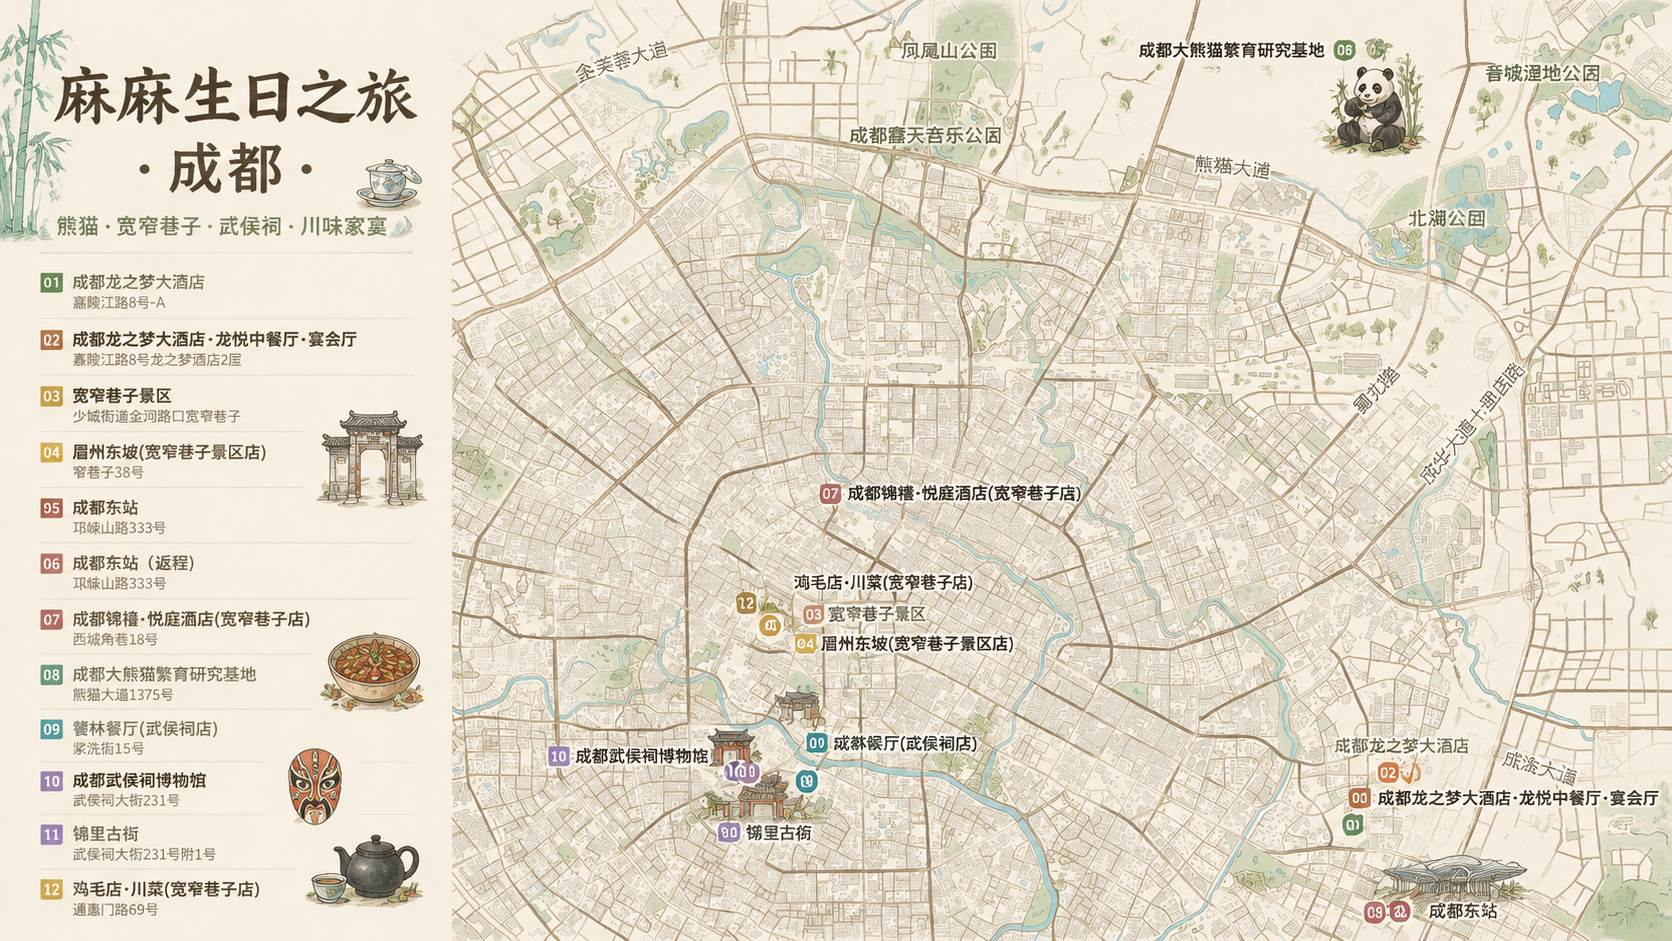
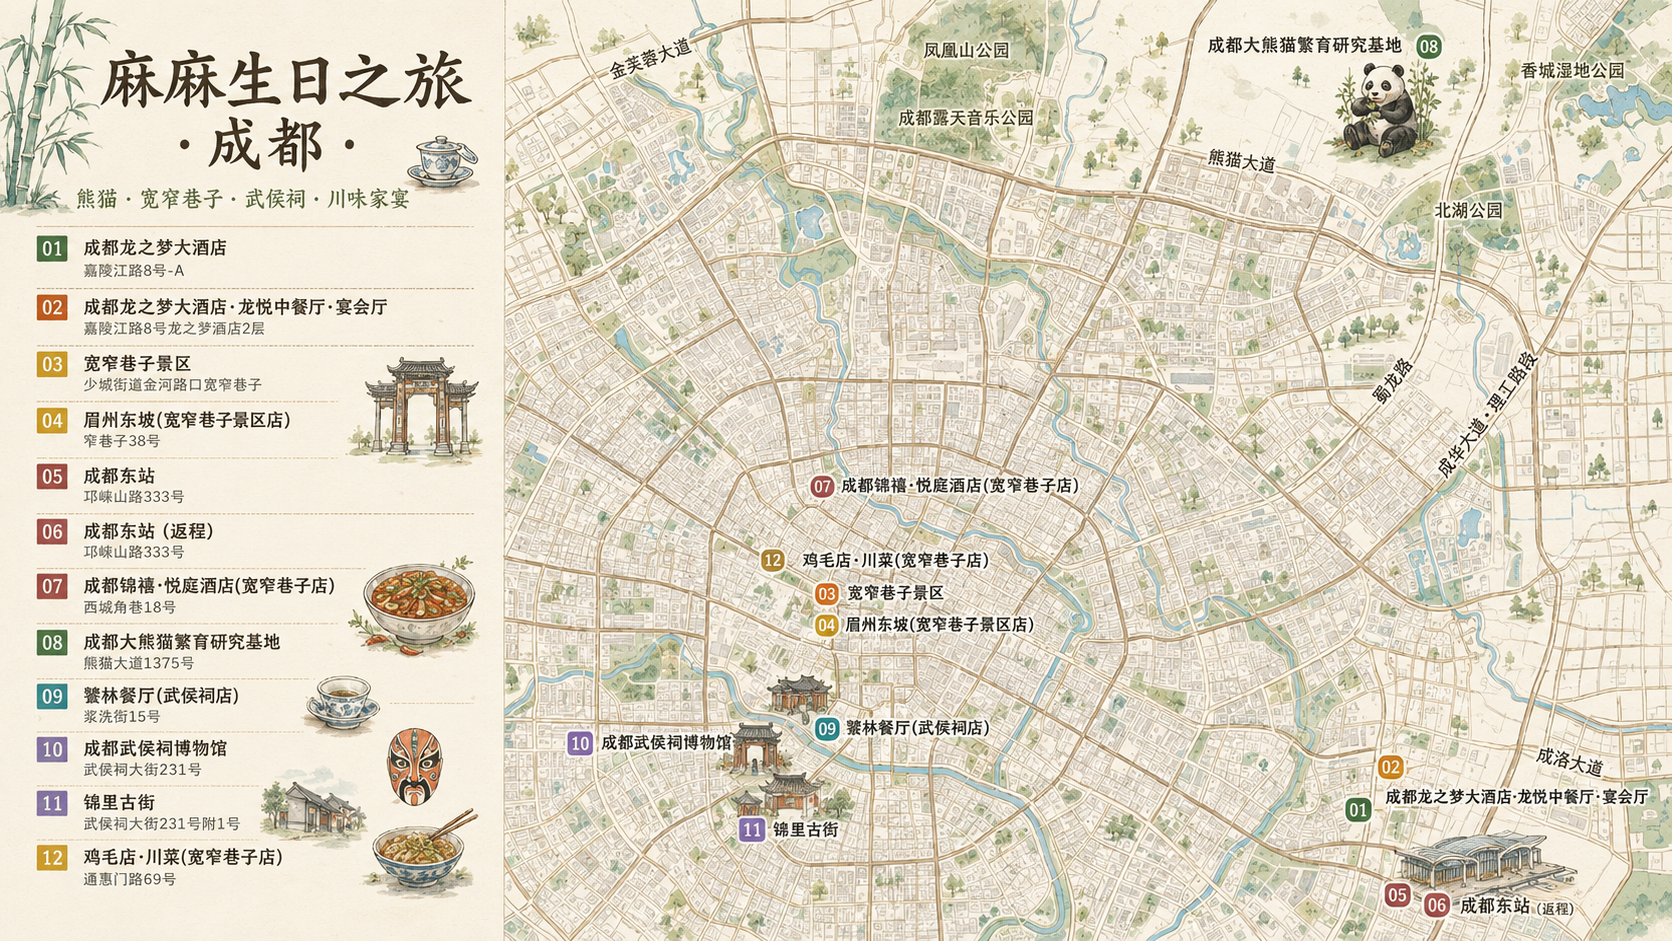
chore: 生成stitch设计文档。替换导览图demo

diff --git a/.stitch/DESIGN.md b/.stitch/DESIGN.md
@@ -1,0 +1,229 @@
+---
+name: 行迹
+colors:
+  background: '#FFF4E6'
+  surface: '#FFFFFF'
+  surface-2: '#FFF9F1'
+  on-surface: '#2B1A10'
+  on-surface-variant: '#5A4338'
+  outline: 'rgba(43, 26, 16, 0.08)'
+  primary: '#FF7A2E'
+  primary-container: '#FFEBD6'
+  secondary: '#6B46C1'
+  tertiary: '#4FB286'
+  warning: '#FFC247'
+  error: '#FF5B5B'
+  magazine-background: '#F4F0E8'
+  magazine-primary: '#D62E2E'
+  postcard-background: '#EFE6D5'
+  postcard-primary: '#C13D2F'
+  minimal-background: '#FAFAF8'
+  minimal-primary: '#2B1A10'
+typography:
+  display:
+    fontFamily: Noto Serif SC, Songti SC, STSong, serif
+    fontSize: 52rpx
+    fontWeight: '800'
+    lineHeight: '1.15'
+    letterSpacing: 2rpx
+  title:
+    fontFamily: var(--font-display)
+    fontSize: 32rpx
+    fontWeight: '700'
+    lineHeight: '1.35'
+    letterSpacing: 1rpx
+  body:
+    fontFamily: PingFang SC, Noto Sans SC, Source Han Sans SC, -apple-system, sans-serif
+    fontSize: 26rpx
+    fontWeight: '400'
+    lineHeight: '1.5'
+    letterSpacing: '0'
+  label:
+    fontFamily: var(--font-mono)
+    fontSize: 22rpx
+    fontWeight: '600'
+    lineHeight: '1'
+    letterSpacing: 1rpx
+rounded:
+  xs: 12rpx
+  sm: 16rpx
+  md: 22rpx
+  lg: 32rpx
+  xl: 44rpx
+  pill: 999rpx
+spacing:
+  page-x: 32rpx
+  section-gap: 24rpx
+  card-padding: 24rpx
+  sheet-padding: 32rpx
+  touch-min: 80rpx
+---
+
+# 1. Design System: 行迹
+
+## 1.1. Visual Theme & Atmosphere
+
+行迹是一个以旅行规划为核心的小程序界面，整体视觉语言建立在浅色纸感、轻量卡片、主题化变量和明确的触摸反馈之上。源码中的 `src/styles/tokens.scss` 定义了四套主题：手帖 `tegami`、刊物 `magazine`、护照 `postcard`、极简 `minimal`；每套主题共享相同语义变量，如 `--bg`、`--surface`、`--ink`、`--accent`、`--r-*`、`--shadow-*`，由 `theme-tokens theme-{name}` 根类切换。
+
+默认手帖主题偏暖橘，页面背景带浅奶油色和局部径向光感，卡片圆角较大，阴影柔和，适合表达“轻松做攻略”的产品气质。其他主题不是换色皮肤，而是各自调整形状和排版语气：刊物主题更方、更硬、更像编辑目录；护照主题使用签证页、虚线、编号、水印等旅行证件意象；极简主题保留留白、低阴影和克制分隔线。
+
+首页方向保持“少装饰、先创建、再发现、再个人行程”的结构。推荐内容以 `旅人精选` 呈现，和 `我的行程` 明确分层，不做底部常驻广告式信息流。模板库和阅读页强调只读感、搜索与天数筛选，视觉上复用现有主题 token，不依赖 emoji 装饰。
+
+## 2. Color Palette & Roles
+
+### 2.1. Primary Foundation
+
+| 角色 | Token | 默认值 | 用途 |
+|:---|:---|:---|:---|
+| 页面背景 | `--bg` | `#FFF4E6` | 页面根底色、原生窗口回弹背景 |
+| 深层背景 | `--bg-deep` | `#F4E6CE` | 深一点的纸面或分隔背景 |
+| 柔背景 | `--bg-soft` | `#FFE9D1` | 弹层分组、取消区块、浅底强调 |
+| 主表面 | `--surface` | `#FFFFFF` | 卡片、弹层、搜索框、分段控件 |
+| 次表面 | `--surface-2` | `#FFF9F1` | 结果按压态、标签背景、次级容器 |
+| 线条 | `--line` | `rgba(43, 26, 16, 0.08)` | 细分割线、输入边框 |
+| 强线条 | `--line-2` | `rgba(43, 26, 16, 0.14)` | 弹层拖拽柄、虚线边框、较明显分隔 |
+
+四主题基础色如下：
+
+| 主题 | 背景 | 表面 | 主文字 | 主强调 |
+|:---|:---|:---|:---|:---|
+| 手帖 `tegami` | `#FFF4E6` | `#FFFFFF` | `#2B1A10` | `#FF7A2E` |
+| 刊物 `magazine` | `#F4F0E8` | `#FFFFFF` | `#111111` | `#D62E2E` |
+| 护照 `postcard` | `#EFE6D5` | `#FFFCF3` | `#2B1F0E` | `#C13D2F` |
+| 极简 `minimal` | `#FAFAF8` | `#FFFFFF` | `#0F0F0E` | `#2B1A10` |
+
+### 2.2. Accent & Interactive
+
+| 角色 | Token | 默认值 | 用途 |
+|:---|:---|:---|:---|
+| 主强调 | `--accent` | `#FF7A2E` | CTA、选中 tab、可编辑入口、搜索手动添加 |
+| 第二强调 | `--accent-2` | `#FF9A4D` | 渐变终点、活跃按钮过渡 |
+| 强调浅色 | `--accent-soft` | `#FFD3A8` | 虚线边框、柔和光晕 |
+| 强调背景 | `--accent-bg` | `#FFEBD6` | 二级按钮、按压态、输入背景 |
+| AI / 特殊强调 | `--plum` | `#6B46C1` | AI 创建 tile、AI 状态光效 |
+| 成功/自然 | `--leaf` | `#4FB286` | 绿色状态、自然主题色 |
+| 阳光/提醒 | `--sun` | `#FFC247` | 暖色装饰、季节/天气语义 |
+
+交互色通常通过渐变表达：选中 tab 使用 `linear-gradient(135deg, var(--accent), var(--accent-2))`；AI 入口使用 `var(--plum)` 到 `var(--accent)`；行程卡和地点卡用左侧 6-12rpx 色条强调当前对象。
+
+### 2.3. Typography & Text Hierarchy
+
+| 角色 | Token | 默认值 | 用途 |
+|:---|:---|:---|:---|
+| 主文字 | `--ink` | `#2B1A10` | 标题、正文主信息 |
+| 次文字 | `--ink-2` | `#5A4338` | 元信息、正文辅助信息 |
+| 弱文字 | `--ink-3` | `#9B8378` | 日期、提示、空态、说明 |
+| 反白文字 | 固定 | `#FFFFFF` | 主按钮、选中胶囊、渐变卡片 |
+
+### 2.4. Functional States
+
+| 状态 | Token / 值 | 用途 |
+|:---|:---|:---|
+| 危险/删除 | `--coral` / 默认 `#FF5B5B` | 删除、危险操作、价格强调 |
+| LIVE 状态 | `#ff3b3b` | `TripPhaseChip` 当前旅行状态脉冲 |
+| 弹层遮罩 | `rgba(43, 26, 16, 0.45)` | Sheet、搜索、编辑弹层统一遮罩 |
+| 禁用/弱化 | `opacity: 0.45-0.6` | 已结束行程、禁用按钮、弱提示 |
+| 搜索/输入 hint | `var(--ink-3)` | 空态、输入提示、结果地址 |
+
+## 3. Typography Rules
+
+### 3.1. Font Families
+
+系统字体以中文可读性优先：
+
+| Token | 字体栈 | 性格 |
+|:---|:---|:---|
+| `--font-serif` | `Noto Serif SC`, `Songti SC`, `STSong`, `SimSun`, serif | 旅行手帐、标题、城市名，有纸本感 |
+| `--font-sans` | `PingFang SC`, `Noto Sans SC`, `Source Han Sans SC`, `-apple-system`, sans-serif | 正文、表单、通用操作，清楚耐读 |
+| `--font-mono` | `JetBrains Mono`, `SF Mono`, `Fira Code`, ui-monospace, monospace | 日期、编号、金额、天数、路线信息 |
+| `--font-display` | 主题覆写 | 主题标题字体，刊物使用 Playfair Display，极简使用 sans |
+| `--font-body` | 主题覆写 | 页面正文与控件字体 |
+
+### 3.2. Hierarchy & Weights
+
+大标题集中在 44-56rpx，常见于 trip hero、模板详情标题、预算总额。分区标题约 30-32rpx，权重 600-900，主题差异明显：手帖偏圆润 700，刊物常用 900 与粗线，极简为 600。正文和列表主信息多在 26-30rpx；弱信息、标签、日期、地址多在 18-24rpx。
+
+金额、日期、天数、编号使用等宽体强化信息感。例如预算总额 `56rpx / 800 / var(--font-mono)`，行程卡 meta `22rpx / var(--font-mono)`，地图路线日序 `20-26rpx / var(--font-mono 或 serif)`。
+
+### 3.3. Spacing Principles
+
+标题和标签允许轻微字距，常见 `letter-spacing: 1-4rpx`，用于日期、英文副标题、编号和 chip。正文不使用负字距。行高以紧凑移动端为主：标题 `1.15-1.35`，说明文本约 `1.5`。布局密度保持小程序触控友好，主要按钮高度约 80-88rpx，底部 sheet 操作项高度约 80rpx 以上。
+
+## 4. Component Stylings
+
+### 4.1. Buttons
+
+主按钮使用 `var(--accent)` 或 `linear-gradient(135deg, var(--accent), var(--accent-2))`，白字，圆角随主题走 `var(--r-md)` 到 `var(--r-pill)`。全局按钮按压会 `scale(0.96)`，多数局部按钮使用 `0.94-0.985` 的轻微缩放。次级按钮使用 `var(--accent-bg)` 或 `var(--surface)`，文字为 `var(--ink-2)` 或 `var(--accent)`；危险按钮使用 `var(--coral)`。
+
+创建入口是首页最强按钮组：AI 规划 tile 占比更大，使用紫到橘的渐变、扫光和 `pulse-glow`；手动新建 tile 使用深色 `var(--ink)` 底。模板详情底部 CTA 固定在底部，`24px` padding，`16px` 圆角，强调“复制为我的行程”。
+
+### 4.2. Cards & Containers
+
+卡片以 `var(--surface)` 为底，圆角使用 `var(--r-md)`、`var(--r-lg)` 或 `var(--r-xl)`，阴影使用 `var(--shadow-sm/md/lg)`。手帖卡片有轻微旋转和左侧渐变色条；刊物卡片更像目录行，方角、粗边和低圆角；护照卡片使用虚线、签证编号、水印和纸页阴影；极简卡片保留分隔线和低阴影。
+
+模板库卡片是全宽列表卡：顶部 8px 渐变 ink 条，主体 36-40px 内边距，标题用 display 字体，天数胶囊用等宽体。`旅人精选` 首页卡是横向滚动 280rpx 小封面，封面渐变由 `templateCoverColors` 根据城市和季节确定性生成。
+
+### 4.3. Navigation
+
+页面顶部多为极简栏：左侧日期或返回按钮，右侧头像/菜单。Trip 主导航为 pill tab：容器 `var(--surface)`、`var(--r-pill)`、8rpx 内边距，选中项使用强调渐变和白字。模板详情使用上下边框 tab，未选中为 `var(--ink-3)`，选中为 `var(--accent)`。
+
+地图页存在三种路线控制视觉：颜色胶囊条、分段控制器、路线卡片条。共同规则是横向滑动、等宽信息字体、选中态填充主题色并轻微上移或加阴影。
+
+### 4.4. Inputs & Forms
+
+搜索框和输入框使用浅底、圆角和主题边框。模板库搜索是 pill 形 `var(--surface)` 容器，`1px solid var(--line)`，输入文字 28px；地点搜索 sheet 的输入使用 `var(--bg)` 底、`2rpx transparent` 边框、`var(--r-sm)` 圆角。Profile setup 的输入高 80rpx，背景 `var(--accent-bg)`，圆角 `var(--r-md)`。
+
+筛选 chip 使用 pill 形，默认 `var(--surface)` 与 `var(--line)`，选中后 `var(--accent)` 填充、白字，并有轻微 `scale(1.05)`。天数筛选是模板库的主检索控件，需要明显但紧凑。
+
+### 4.5. Sheets & Modals
+
+底部 sheet 是统一移动端容器：遮罩 `rgba(43, 26, 16, 0.45)`，内容从底部弹出，顶部圆角 `var(--r-xl) var(--r-xl) 0 0`，顶部有 72rpx x 8rpx 的拖拽柄，阴影为 `0 -16rpx 48rpx rgba(43, 26, 16, 0.15)`。搜索、协作、复制、编辑地点、行程整理、日期调整等弹层都遵循这个模式。
+
+### 4.6. Domain-Specific Components
+
+行程地点卡 `spot-card` 使用左侧 6rpx 强调条、时间等宽体、地点名称主文本、价格 coral 等宽体；按压时轻微缩放并提升阴影。预算视图使用总额卡、donut、图例、折线卡和“最贵一笔”渐变卡，数值均倾向等宽体。地图视图以真实地图为主，控件漂浮在上方或右下，定位按钮为 80rpx 圆形白底。
+
+图标系统使用 `View + CSS mask` 的单色线条图标，线条约 1.7，颜色由 `backgroundColor` 接收 token。图标覆盖搜索、地点、标签、协作、日历、四个主视图、地点类型、确认、关闭、箭头等；这是全 app 的方向，避免 emoji 作为装饰或功能图标。
+
+## 5. Layout Principles
+
+### 5.1. Grid & Structure
+
+这是移动端小程序优先的布局系统，主要单位为 `rpx`，部分库页使用 `px`。页面根通常 `min-height: 100vh`，横向溢出被全局 `.theme-tokens` 裁剪。核心页面使用纵向流：顶部极简栏、创建/hero、横滑推荐、列表或功能 view。多数内容边距为 24-32rpx，卡片内部 20-40rpx。
+
+### 5.2. Whitespace Strategy
+
+首页和个人行程列表强调留白，首屏不堆欢迎语和过多装饰。创建台靠前，`旅人精选` 作为明确发现区，个人行程使用单一时间顺序列表。功能页密度更高，但每个操作块仍保持触摸目标和可读间距：卡片 gap 常见 12-24rpx，库页列表 gap 为 32px。
+
+### 5.3. Alignment & Visual Balance
+
+信息以左对齐为主，数字和金额靠右或用等宽体形成秩序。视觉重量由主题决定：手帖靠圆角、暖色和色条；刊物靠粗线、编号和强字重；护照靠纸页边界、虚线和水印；极简靠分割线和留白。横滑内容保留左右 32rpx padding，避免贴边。
+
+### 5.4. Responsive Behavior & Touch
+
+项目面向 Taro 多端，云能力以 weapp 为主。设计上以小屏触控为基准：按钮、胶囊、sheet item、定位按钮都接近或超过 80rpx 高；横向内容通过 ScrollView/nowrap 处理，不依赖桌面断点。`useThemeClass` 会同步原生背景色，避免微信小程序上下回弹露白。
+
+### 5.5. Motion & Feedback
+
+全局动画集中在 `src/styles/animations.scss`：页面进入 `page-in`、普通淡入 `fade-in`、卡片上浮 `slide-up`、弹层 `sheet-up`、局部弹入 `pop-in`、AI 扫光/脉冲和地图 pin 弹跳。动效时间多在 0.18-0.42s，曲线使用 `--ease-out`、`--ease-in-out`、`--ease-spring`。动效要轻，不应盖过内容。
+
+## 6. Design System Notes for Stitch Generation
+
+### 6.1. Language to Use
+
+用“移动端旅行手帐”“轻纸感”“主题化小程序”“可触摸的卡片和底部 sheet”“暖色创建入口”“只读模板攻略库”“原生地图与行程视图复用”来描述。避免泛化成营销落地页，也不要写成桌面 SaaS；它是一个真实可操作的小程序工具。
+
+### 6.2. Color References
+
+默认生成可先使用手帖主题：奶油背景 `#FFF4E6`、白色卡片 `#FFFFFF`、深棕文字 `#2B1A10`、橘色强调 `#FF7A2E`、浅橘强调底 `#FFEBD6`、紫色 AI 强调 `#6B46C1`、珊瑚危险 `#FF5B5B`。需要主题变体时，用同一布局替换为刊物红黑、护照牛皮纸红章、极简黑白低阴影。
+
+### 6.3. Component Prompts
+
+1. 创建一个微信小程序旅行首页，顶部留白克制，先放两个创建 tile：AI 规划更宽、紫橘渐变、轻微扫光；手动新建为深色 tile。下方是横滑“旅人精选”封面卡，再下方是时间排序的“我的行程”列表。
+2. 创建一个行程详情页，顶部是主题 hero 卡，标题 52rpx、纸感背景和暖色光斑；下方是 pill tab 切换行程、地图、预算、行李。行程地点卡用左侧渐变条、等宽时间、地点名和珊瑚色价格。
+3. 创建一个模板库页面，顶部 pill 搜索框，紧凑天数筛选 chip，更多筛选可展开；列表卡全宽、顶部细渐变条、标题用衬线 display 字体，天数为等宽胶囊，标签为浅底描边。
+4. 创建一个底部 sheet，半透明暖棕遮罩，白色表面，顶部大圆角和拖拽柄，操作项 30rpx 半粗体，危险操作用 coral。
+
+### 6.4. Incremental Iteration
+
+优先从 token 和四主题根类还原，不要新增未在源码出现的 CSS 变量。先做手帖默认主题，再根据相同语义 token 派生刊物、护照、极简。模板和推荐内容使用原创的几何/纸感视觉，不临摹第三方旅行 app；图标使用单色 CSS mask 风格，不使用 emoji 装饰。移动端要检查文字是否在按钮、chip、卡片内换行合理，横向滚动控件不要挤压主内容。